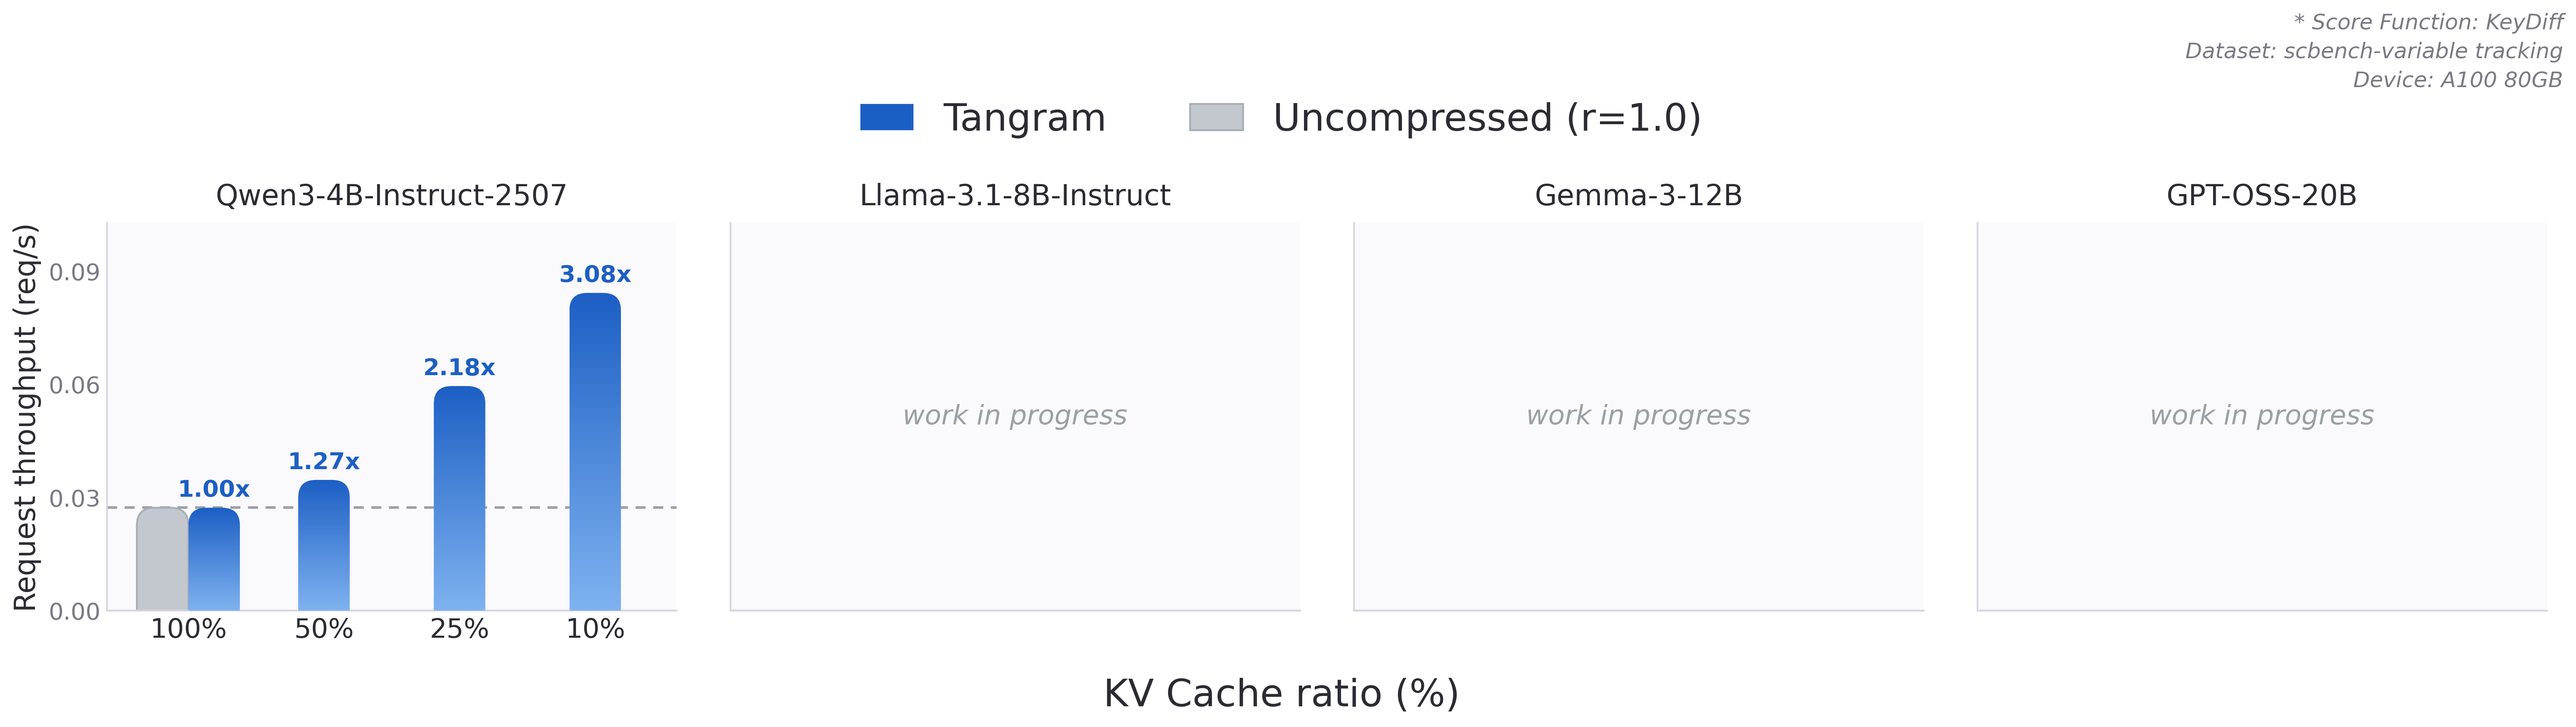
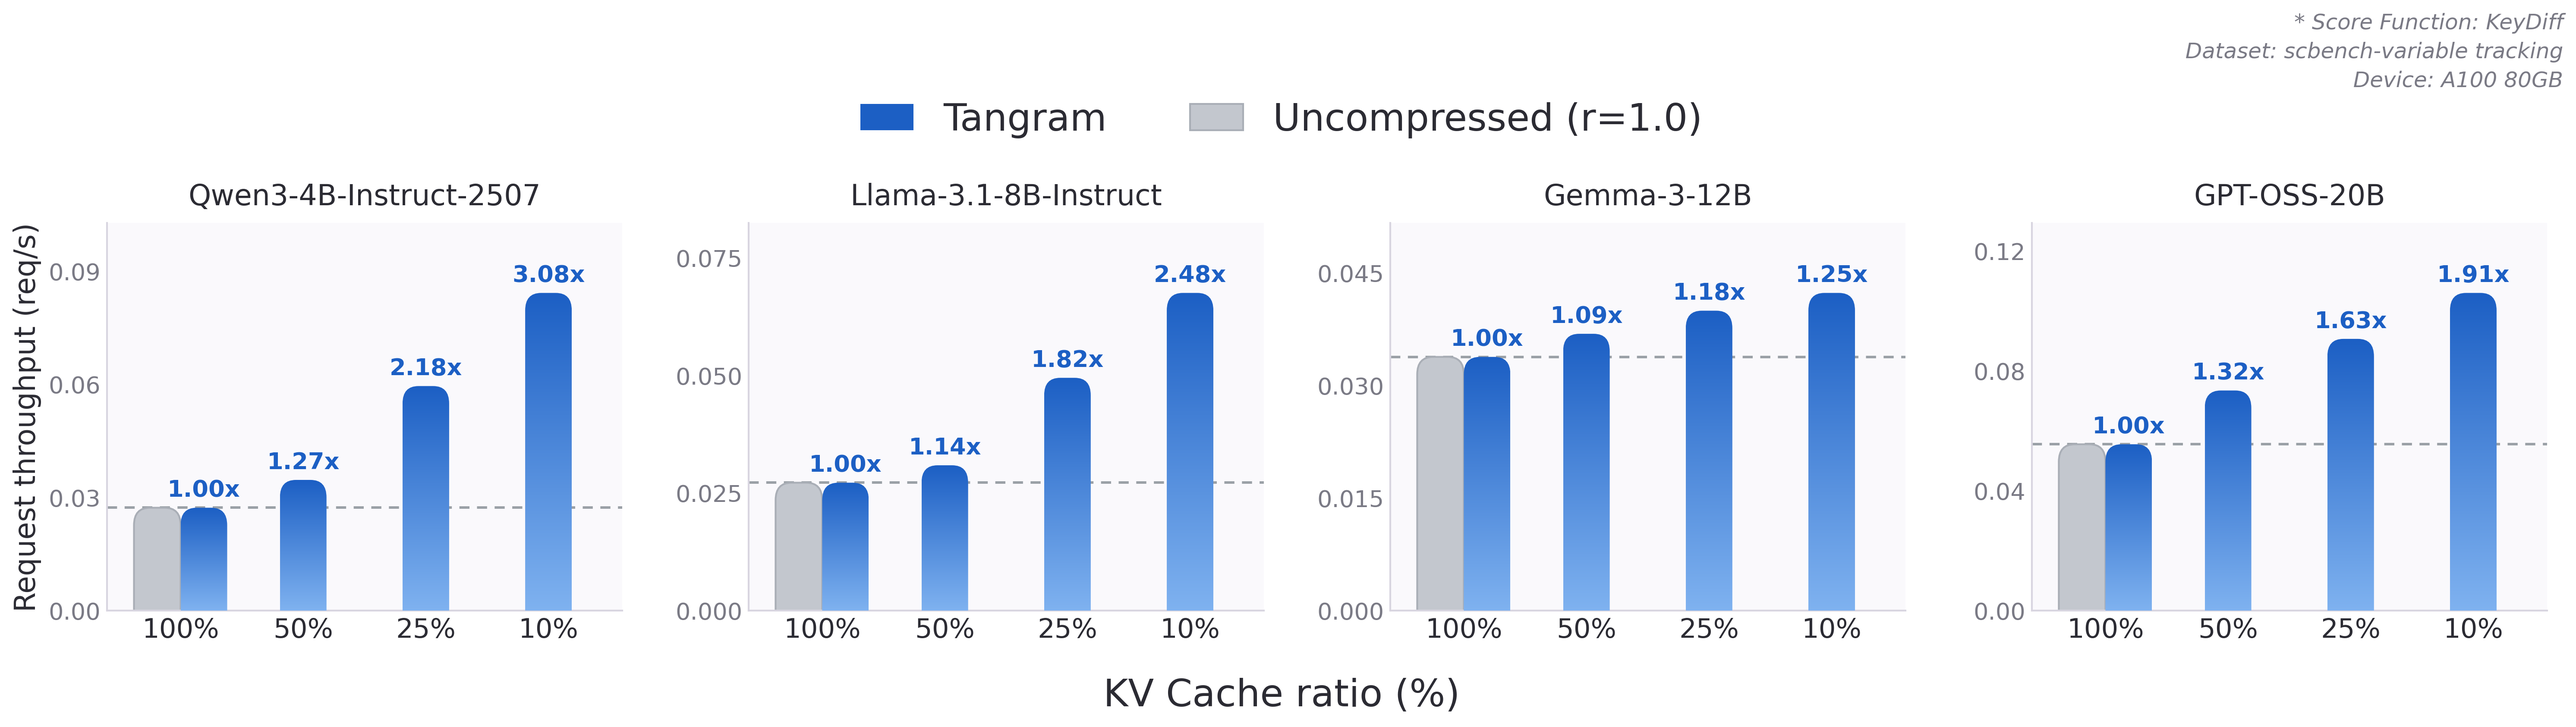
[Docs] Add SCBench accuracy comparison and KeyDiff speedup results to README

diff --git a/README.md b/README.md
@@ -104,6 +104,15 @@ The following models have been verified with Tangram. More models are on the way
 
 ## Accuracy
 
+<details>
+<summary><b>Accuracy Comparison(SCBench, Tangram vs PyTorch)</b></summary>
+
+<p align="center">
+  <img src="docs/assets/accuracy/accuracy_scbench.png" alt="SCBench accuracy comparison, Tangram vs PyTorch across four compression methods" width="100%"/>
+</p>
+
+</details>
+
 [RULER](https://arxiv.org/abs/2404.06654) 8K
 
 <details>
